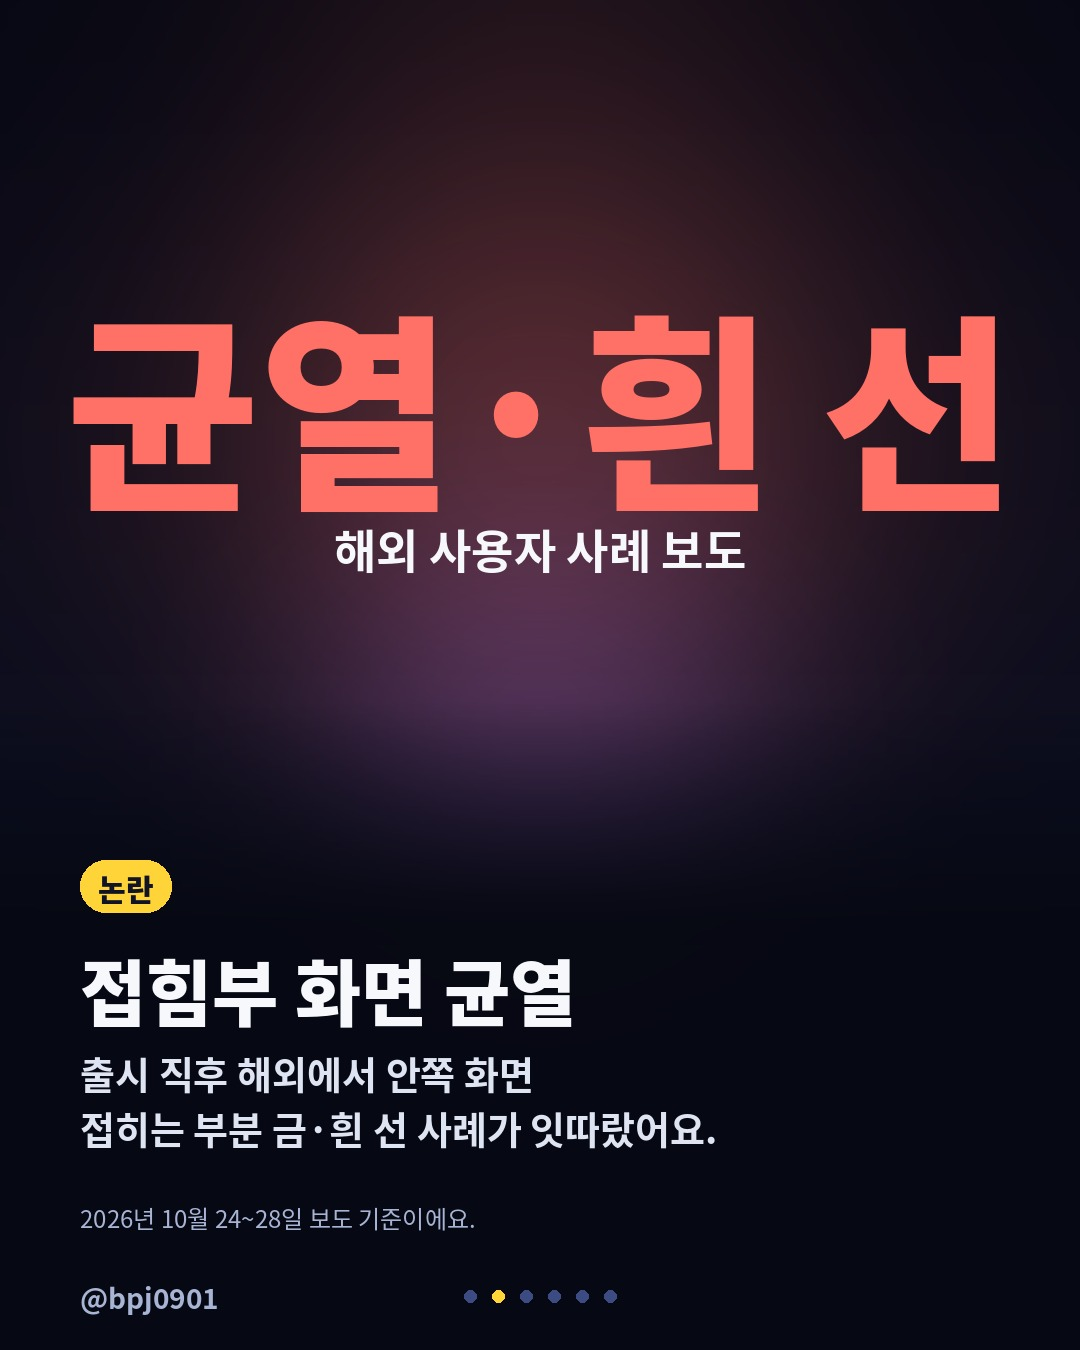
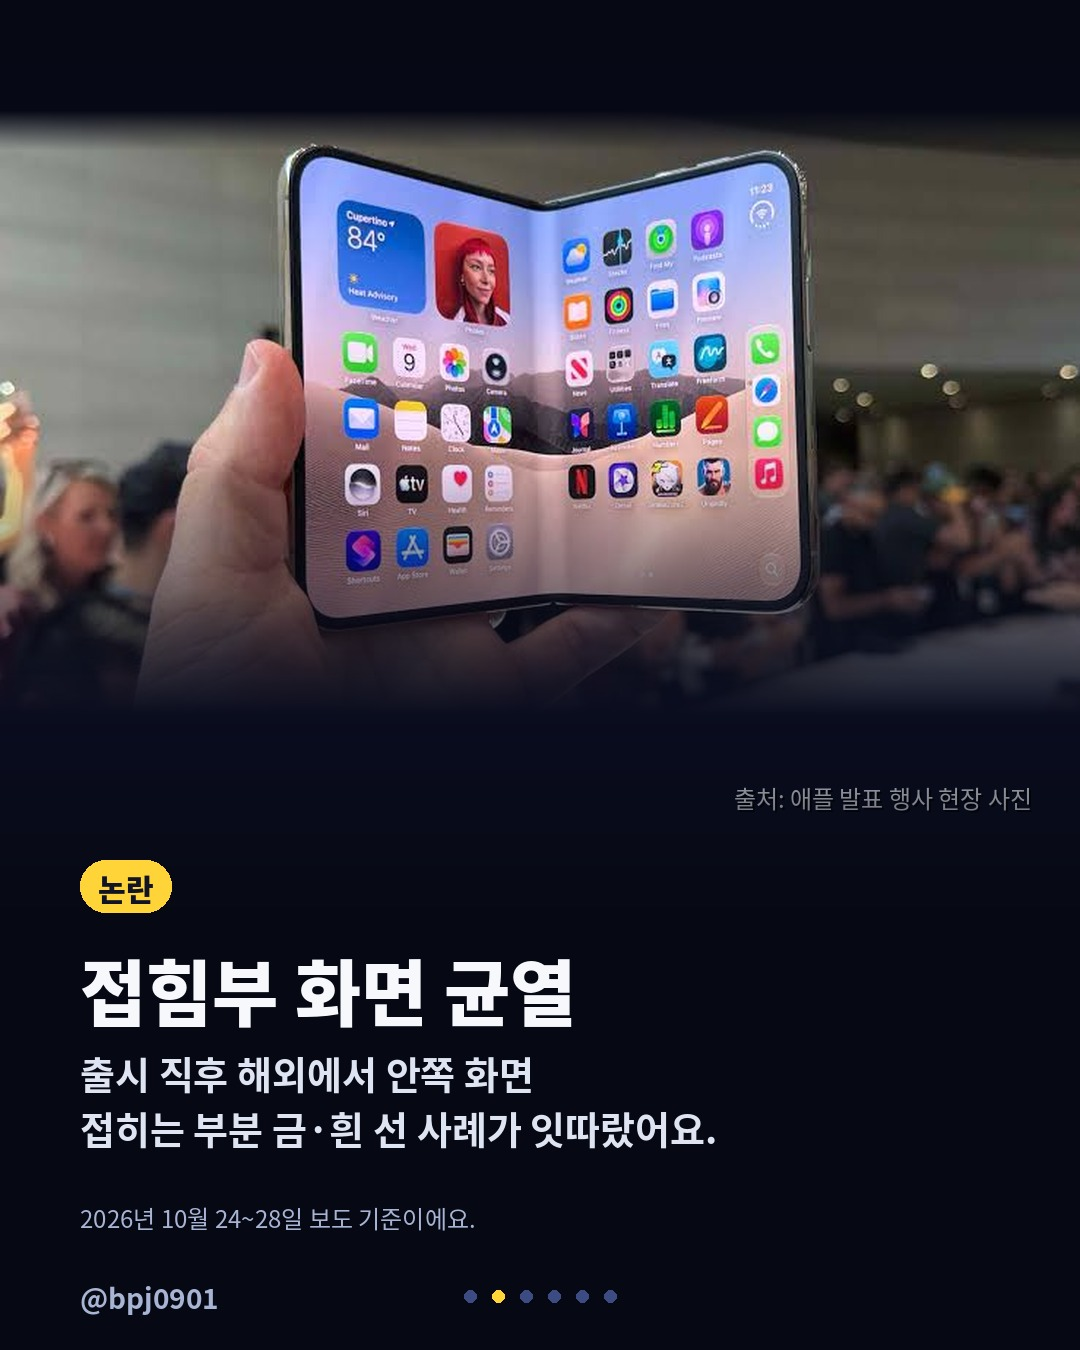
카드 1800: 사용자 요청 이미지로 교체, 사진 출처 표시(credit) 옵션 추가
Claude-Session: https://claude.ai/code/session_01VQQ9ZYKhYv6NyUqpLcayLF

diff --git a/tools/render.py b/tools/render.py
@@ -344,11 +344,25 @@ def photo(img, v):
             d.text(((W - sw) / 2, sy), o["sub"], font=fs, fill=C["text"])
 
 
+def credit(img, v):
+    """사진 출처를 사진 오른쪽 아래에 작게 표시한다 (visual.credit)."""
+    t = v.get("credit")
+    if not t:
+        return
+    d = ImageDraw.Draw(img)
+    f = font("regular", 24)
+    tw = d.textlength(t, font=f)
+    y = v.get("credit_y", 780)
+    d.text((W - 48 - tw + 2, y + 2), t, font=f, fill=(0, 0, 0))
+    d.text((W - 48 - tw, y), t, font=f, fill=(225, 230, 240))
+
+
 def visual(img, v):
     """v: {"kind": "phones"|"phone"|"big"|"badges"|"sms"|"photo", ...}"""
     k = v.get("kind", "big")
     if k == "photo":
-        return photo(img, v)
+        photo(img, v)
+        return credit(img, v)
     if k == "tag":  # 상품 이름표: 사진 없이 상품을 보여줄 때
         stage(img, glow_col=C["accent"])
         d = ImageDraw.Draw(img)
